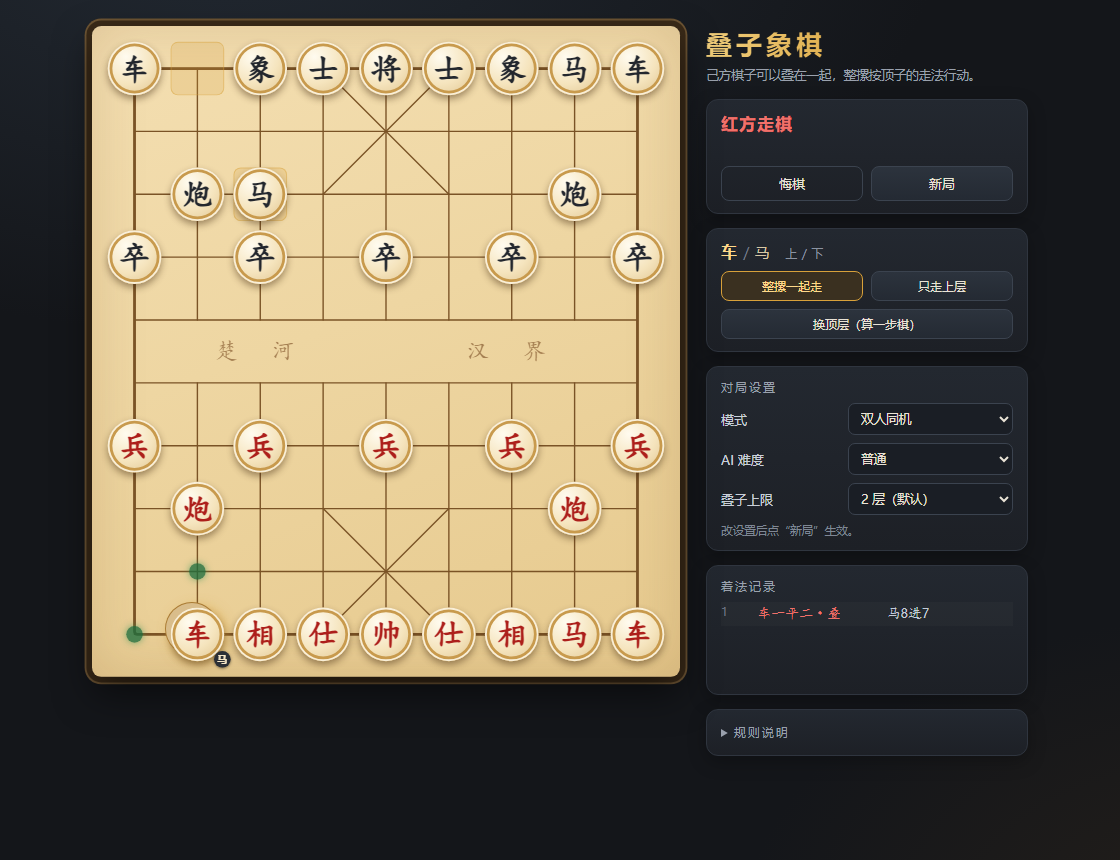
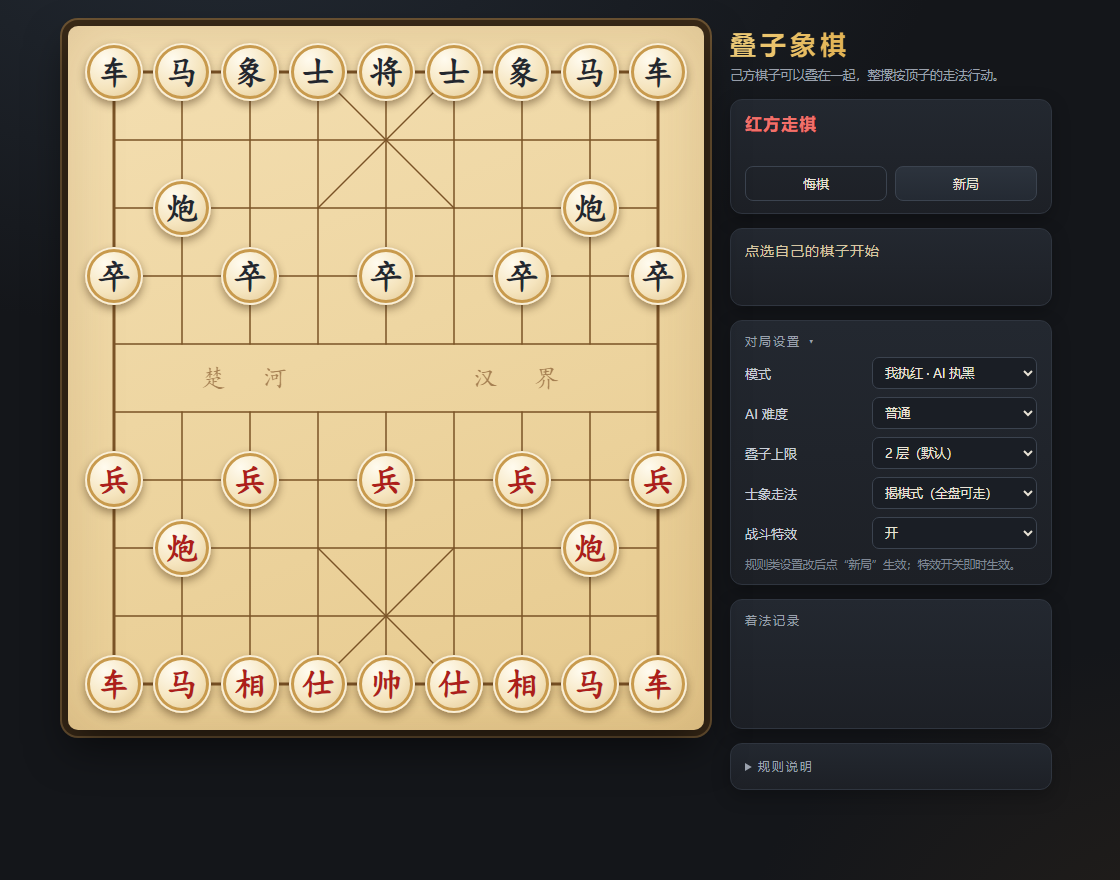
适配手机端

Changed region(s): [[0.0312, 0.0, 0.9375, 0.8767], [0.9062, 0.1814, 0.9375, 0.2419], [0.9062, 0.3628, 0.9375, 0.393]]

diff --git a/style.css b/style.css
@@ -17,6 +17,7 @@
 html, body {
   margin: 0;
   padding: 0;
+  -webkit-text-size-adjust: 100%;
   background:
     radial-gradient(1200px 700px at 20% -10%, #232a33 0%, transparent 60%),
     radial-gradient(900px 600px at 110% 110%, #241f1a 0%, transparent 55%),
@@ -60,6 +61,7 @@ html, body {
   overflow: hidden;
   user-select: none;
   -webkit-tap-highlight-color: transparent;
+  touch-action: manipulation;
 }
 
 .board-svg { position: absolute; inset: 0; display: block; }
@@ -252,6 +254,24 @@ html, body {
   margin-bottom: 8px;
 }
 
+.settings-card > summary {
+  cursor: pointer;
+  list-style: none;
+  margin-bottom: 0;
+  display: flex;
+  align-items: center;
+  gap: 6px;
+  user-select: none;
+}
+.settings-card > summary::-webkit-details-marker { display: none; }
+.settings-card > summary::after {
+  content: "▾";
+  font-size: 10px;
+  transition: transform .15s;
+}
+.settings-card[open] > summary { margin-bottom: 8px; }
+.settings-card:not([open]) > summary::after { transform: rotate(-90deg); }
+
 .status { font-size: 17px; font-weight: 700; letter-spacing: 1px; }
 .status.red { color: #f0716a; }
 .status.black { color: #cfd6e2; }
@@ -331,8 +351,43 @@ html, body {
 .rules b { color: #ffd98a; }
 
 @media (max-width: 1060px) {
-  .app { flex-direction: column; align-items: center; }
+  .app { flex-direction: column; align-items: center; padding: 16px 12px 30px; gap: 14px; }
   .panel { width: 100%; max-width: 636px; }
+}
+
+/* 手机：面板拆开重排，状态条排到棋盘上方 */
+@media (max-width: 560px) {
+  .app {
+    padding: 8px 8px calc(24px + env(safe-area-inset-bottom));
+    gap: 10px;
+    align-items: stretch;
+  }
+  .panel { display: contents; }
+
+  .brand { order: 0; text-align: center; }
+  .brand h1 { font-size: 21px; letter-spacing: 3px; }
+  .brand p { font-size: 11.5px; }
+  .status-card { order: 1; }
+  .board-col { order: 2; align-self: center; }
+  .sel-card { order: 3; }
+  .moves-card { order: 4; min-height: 0; }
+  .settings-card { order: 5; }
+  .rules { order: 6; }
+
+  .card { padding: 10px 12px; border-radius: 10px; }
+  .status { font-size: 15.5px; }
+  .substatus { font-size: 12px; }
+  .btns { margin-top: 8px; }
+  .btn { padding: 9px 10px; font-size: 12.5px; }
+  .sel-card { min-height: 0; }
+  .sel-text { font-size: 13px; }
+  .field { font-size: 12.5px; margin: 7px 0; }
+  .field select { flex: 0 0 148px; font-size: 12px; padding: 6px; }
+  .movelist { max-height: 132px; font-size: 13px; }
+}
+
+@media (hover: none) {
+  .piece:hover { transform: none; }
 }
 
 /* ---------- 特效 ---------- */

diff --git a/app.js b/app.js
@@ -433,14 +433,31 @@
 
   /* ---------------- 自适应缩放 ---------------- */
 
+  var raf = window.requestAnimationFrame
+    ? window.requestAnimationFrame.bind(window)
+    : function (fn) { return setTimeout(fn, 16); };
+  var fitPending = false;
+
   function fit() {
-    var availW = boardCol.clientWidth || BW;
-    var availH = Math.max(360, window.innerHeight - 70);
+    var vw = window.innerWidth || BW;
+    var vh = window.innerHeight || BH;
+    var phone = vw <= 560;
+    var narrow = vw <= 1060;
+    var padX = phone ? 16 : (narrow ? 24 : 0);
+    var padY = phone ? 150 : (narrow ? 110 : 60);
+    var availW = Math.max(240, vw - padX);
+    var availH = Math.max(240, vh - padY);
     var s = Math.min(1, availW / BW, availH / BH);
     if (!isFinite(s) || s <= 0) s = 1;
     boardBox.style.width = (BW * s) + 'px';
     boardBox.style.height = (BH * s) + 'px';
     boardWrap.style.transform = 'scale(' + s + ')';
+  }
+
+  function requestFit() {
+    if (fitPending) return;
+    fitPending = true;
+    raf(function () { fitPending = false; fit(); });
   }
 
   /* ---------------- 交互 ---------------- */
@@ -476,6 +493,7 @@
 
     var cell = game.board[i];
     if (cell && XQ.colorOf(XQ.topOf(cell)) === game.turn) {
+      if (selected === i) { selected = null; render(); return; }   // 再点一次取消
       selected = i;
       mode = 'stack';
       render();
@@ -572,9 +590,30 @@
     }
   });
 
-  window.addEventListener('resize', fit);
+  window.addEventListener('resize', requestFit);
+  window.addEventListener('orientationchange', function () {
+    requestFit();
+    setTimeout(fit, 180);
+    setTimeout(fit, 420);
+  });
+  if (window.visualViewport) {
+    window.visualViewport.addEventListener('resize', requestFit);
+    window.visualViewport.addEventListener('scroll', requestFit);
+  }
+  // 窗口尺寸可能在脚本初始化之后才变化（手机旋屏、地址栏收起、某些内嵌浏览器）
+  if (window.ResizeObserver) {
+    new window.ResizeObserver(requestFit).observe(document.documentElement);
+  }
+  window.addEventListener('load', requestFit);
 
   buildBoard();
   newGame();
   fit();
+  requestFit();
+  setTimeout(fit, 60);
+  setTimeout(fit, 300);
+
+  // 手机上把“对局设置”默认收起来，省得挡路
+  var sc = $('#settingsCard');
+  if (sc && window.innerWidth <= 560) sc.open = false;
 })();

diff --git a/index.html b/index.html
@@ -2,7 +2,10 @@
 <html lang="zh-CN">
 <head>
 <meta charset="utf-8">
-<meta name="viewport" content="width=device-width, initial-scale=1">
+<meta name="viewport" content="width=device-width, initial-scale=1, viewport-fit=cover">
+<meta name="theme-color" content="#14161a">
+<meta name="apple-mobile-web-app-capable" content="yes">
+<meta name="apple-mobile-web-app-status-bar-style" content="black-translucent">
 <title>叠子象棋</title>
 <link rel="stylesheet" href="style.css">
 </head>
@@ -45,8 +48,8 @@
       <button id="switchBtn" class="btn tiny wide" hidden>换顶层（算一步棋）</button>
     </div>
 
-    <div class="card">
-      <div class="card-title">对局设置</div>
+    <details class="card settings-card" id="settingsCard" open>
+      <summary class="card-title">对局设置</summary>
       <label class="field">
         <span>模式</span>
         <select id="modeSel">
@@ -85,7 +88,7 @@
         </select>
       </label>
       <p class="hint">规则类设置改后点“新局”生效；特效开关即时生效。</p>
-    </div>
+    </details>
 
     <div class="card moves-card">
       <div class="card-title">着法记录</div>

diff --git a/README.md b/README.md
@@ -54,6 +54,14 @@ AI 出招有节奏控制：走完至少停留 0.9–1.8 秒（按难度），不
 | 琥珀虚线框 | 上一步的**起点** |
 | 琥珀实线框 | 上一步的**落点** |
 
+## 手机适配
+
+![手机竖屏](phone.png)
+
+- 棋盘按视口自动缩放，竖屏铺满屏幕宽度；`resize` / `orientationchange` / `visualViewport` / `ResizeObserver` 四路兜底重算，旋屏和地址栏收起都不会错位。
+- 窄屏（≤560px）下面板拆开重排：标题和状态条排到棋盘上方，棋子在中间，记录和设置在下；“对局设置”默认折叠。
+- 触摸：`touch-action: manipulation` 去掉双击缩放延迟，触摸设备禁用 hover 抬升；再点一次已选中的棋子即可取消选择。
+
 ## 运行
 
 直接双击 `index.html`。或在目录里起个静态服务：
